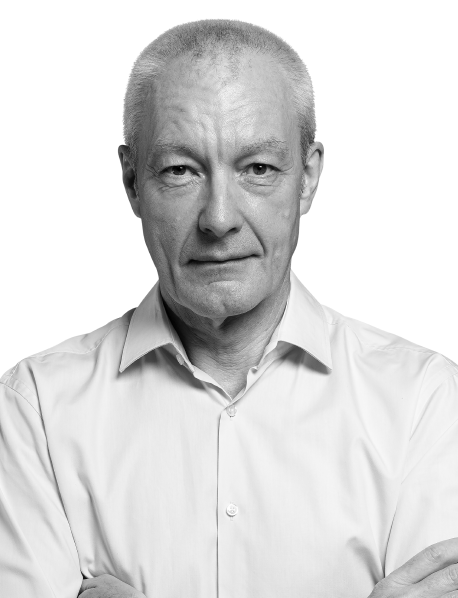
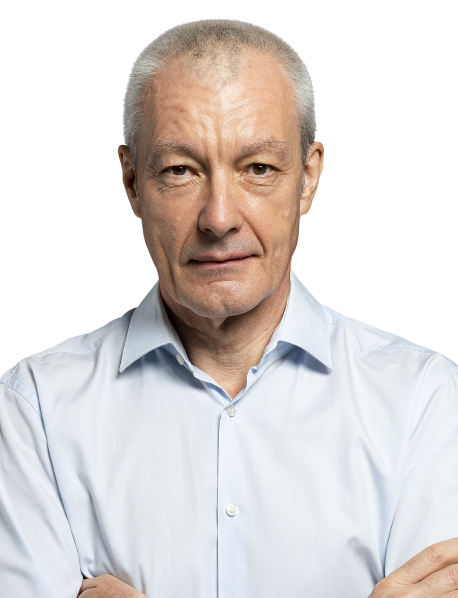
fixed hover

diff --git a/css/style.scss b/css/style.scss
@@ -65,6 +65,11 @@ textarea {
         font-size: 16px;
         font-weight: 400;
         text-transform: uppercase;
+
+        &:hover {
+            background: #E3C37A;
+            color: #FFF;
+        }
     }
 
     &-yellow {
@@ -79,6 +84,12 @@ textarea {
         font-family: $font-inter;
         font-weight: 600;
         font-size: 20px;
+
+        &:hover {
+            background: transparent;
+            border: 1px solid #B1B1B1;
+            color: #B1B1B1;
+        }
     }
 }
 
@@ -230,6 +241,10 @@ textarea {
 
         @include media(992) {
             display: none;
+        }
+
+        &:hover {
+            color: #A4834E;
         }
     }
 
@@ -916,6 +931,15 @@ textarea {
                     width: 24px;
                 }
             }
+
+            &:hover {
+                background: #A4834E;
+                color: #FFF;
+
+                img {
+                    filter: brightness(0) invert(1);
+                }
+            }
         }
 
         h3 {
@@ -1039,6 +1063,12 @@ textarea {
                     }
                 }
             }
+
+            &:hover {
+                img {
+                    filter: grayscale(0);
+                }
+            }
         }
 
         .main-img {
@@ -1057,6 +1087,7 @@ textarea {
                 height: 100%;
                 object-fit: cover;
                 object-position: center bottom;
+                filter: grayscale(100%);
             }
         }
 
@@ -1806,6 +1837,10 @@ textarea {
 
             a {
                 color: #E3C37A;
+
+                &:hover {
+                    color: #A4834E;
+                }
             }
         }
 

diff --git a/css/style.css b/css/style.css
@@ -137,6 +137,10 @@ textarea {
   font-weight: 400;
   text-transform: uppercase;
 }
+.btn-light:hover {
+  background: #E3C37A;
+  color: #FFF;
+}
 .btn-yellow {
   width: 308px;
   height: 73px;
@@ -149,6 +153,11 @@ textarea {
   font-family: "Inter", sans-serif;
   font-weight: 600;
   font-size: 20px;
+}
+.btn-yellow:hover {
+  background: transparent;
+  border: 1px solid #B1B1B1;
+  color: #B1B1B1;
 }
 
 .subtitle {
@@ -298,6 +307,9 @@ textarea {
   .header .phone-link {
     display: none;
   }
+}
+.header .phone-link:hover {
+  color: #A4834E;
 }
 .header .bars {
   display: flex;
@@ -949,6 +961,13 @@ textarea {
     width: 24px;
   }
 }
+.advantage ul li:hover {
+  background: #A4834E;
+  color: #FFF;
+}
+.advantage ul li:hover img {
+  filter: brightness(0) invert(1);
+}
 .advantage ul h3 {
   margin: 24px 0 16px;
   font-size: 16px;
@@ -1061,6 +1080,9 @@ textarea {
     margin: 6px 0 0;
   }
 }
+.team__list li:hover img {
+  filter: grayscale(0);
+}
 .team__list .main-img {
   width: 100%;
   height: 312px;
@@ -1080,6 +1102,7 @@ textarea {
      object-fit: cover;
   -o-object-position: center bottom;
      object-position: center bottom;
+  filter: grayscale(100%);
 }
 .team__list h3 {
   font-size: 16px;
@@ -1807,6 +1830,9 @@ textarea {
 }
 .contact__content ul a {
   color: #E3C37A;
+}
+.contact__content ul a:hover {
+  color: #A4834E;
 }
 .contact__content .form_group h3 {
   font-size: 16px;
